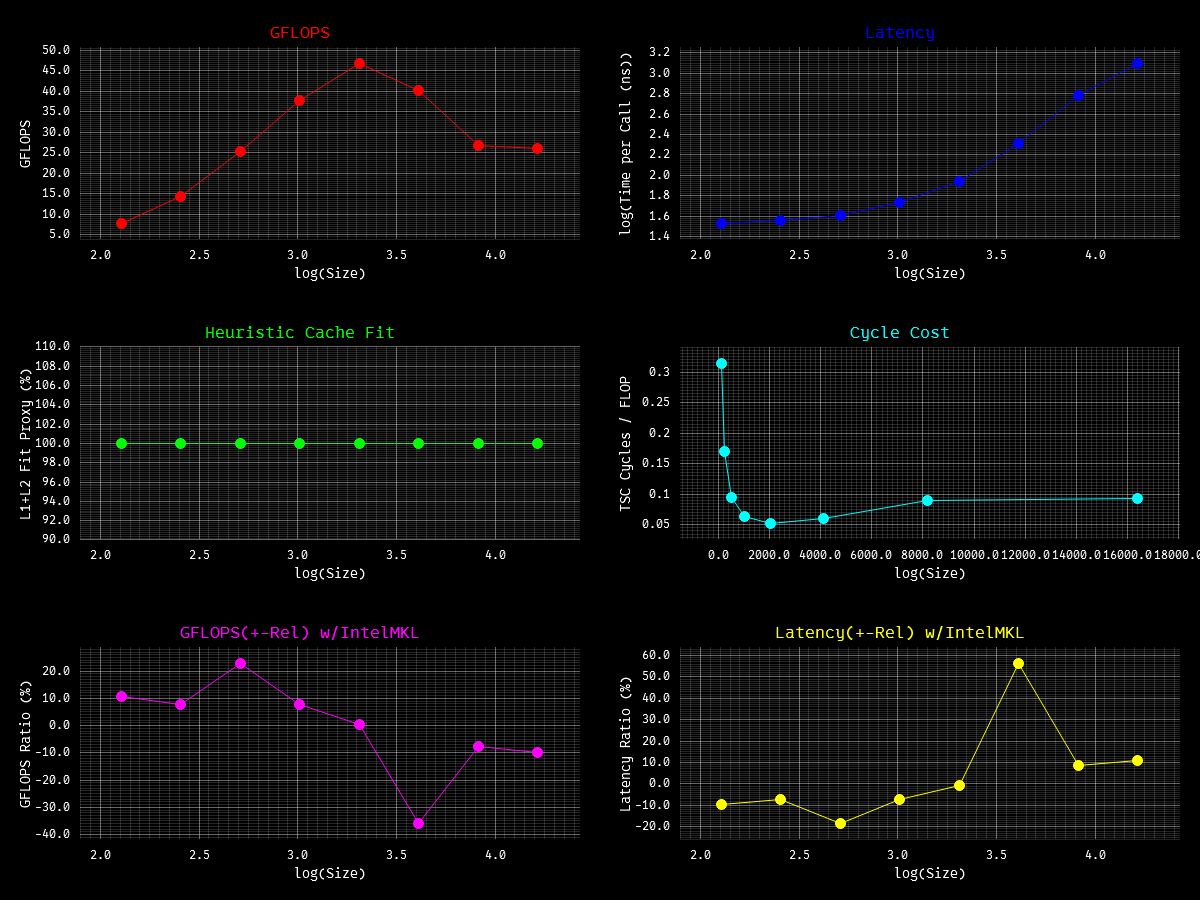
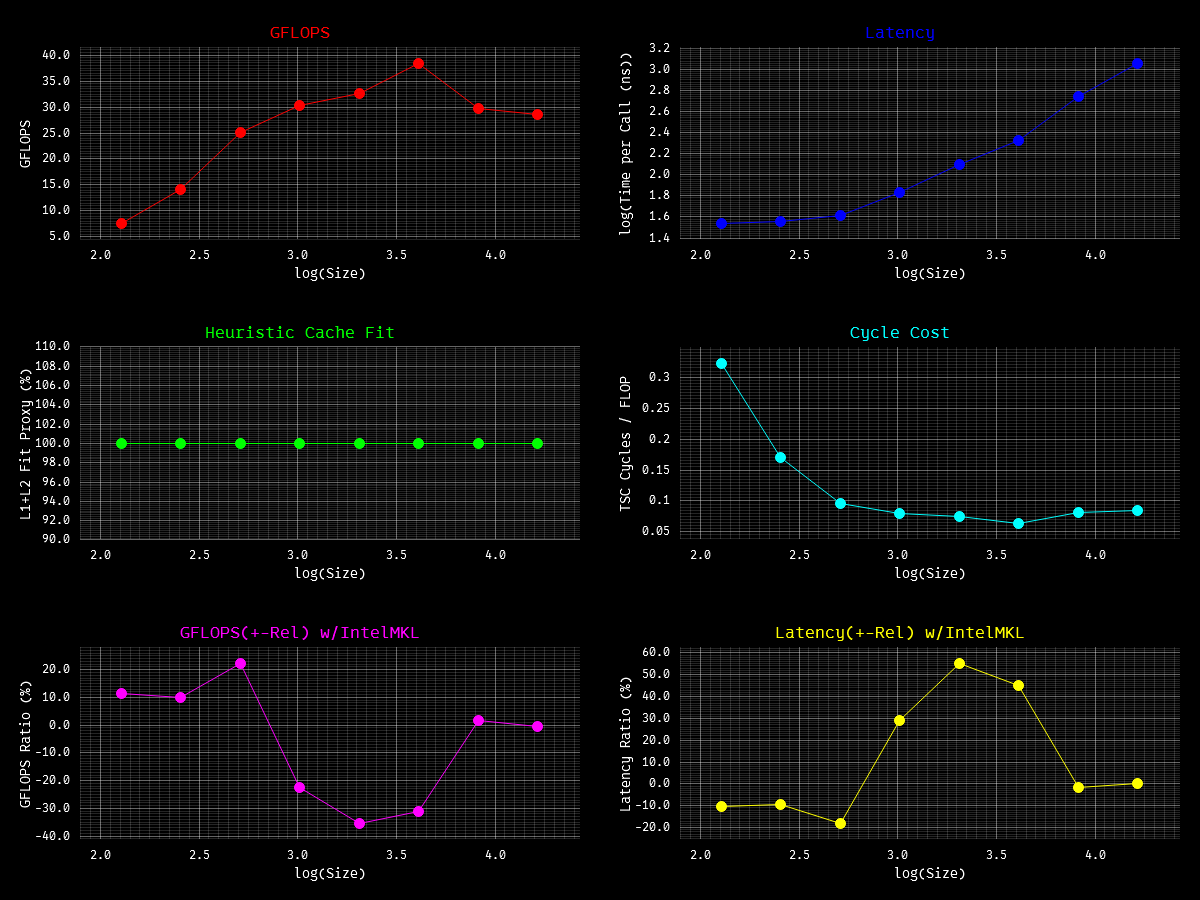
chore; new bench (im done)

diff --git a/bench/main.rs b/bench/main.rs
@@ -62,6 +62,12 @@ fn warmup(noise: &mut Noise, r: usize, s: usize) {
 
             dot(s, &y, 1, &vec![0.0f32; s], 1);
 
+            asum(s, &y, 1);
+
+            nrm2(s, &y, 1);
+
+            i_amax(s, &y, 1);
+
             gemv(
                 s,
                 s,
@@ -115,6 +121,12 @@ fn warmup(noise: &mut Noise, r: usize, s: usize) {
             axpy_intel_mkl(s as i32, (i % 7) as f32, &y, 1, &mut vec![0.0f32; s], 1);
 
             dot_intel_mkl(s as i32, &y, 1, &vec![0.0f32; s], 1);
+
+            asum_intel_mkl(s as i32, &y, 1);
+
+            nrm2_intel_mkl(s as i32, &y, 1);
+
+            i_amax_intel_mkl(s as i32, &y, 1);
 
             gemv_intel_mkl(
                 s as i32,
@@ -298,7 +310,7 @@ fn bench_axpy(noise: &mut Noise, size_sample: &[usize], target_time: f64, plot_p
             ((i as f64).log10(), gflops),
             ((i as f64).log10(), latency.log10()),
             ((i as f64).log10(), cache_eff),
-            (i as f64, cyc_per_flop),
+            ((i as f64).log10(), cyc_per_flop),
             ((i as f64).log10(), gflops_rel),
             ((i as f64).log10(), latency_rel),
         );
@@ -386,7 +398,7 @@ fn bench_nrm2(noise: &mut Noise, size_sample: &[usize], target_time: f64, plot_p
             ((i as f64).log10(), gflops),
             ((i as f64).log10(), latency.log10()),
             ((i as f64).log10(), cache_eff),
-            (i as f64, cyc_per_flop),
+            ((i as f64).log10(), cyc_per_flop),
             ((i as f64).log10(), gflops_rel),
             ((i as f64).log10(), 0.0),
         );
@@ -471,7 +483,7 @@ fn bench_asum(noise: &mut Noise, size_sample: &[usize], target_time: f64, plot_p
             ((i as f64).log10(), gflops),
             ((i as f64).log10(), latency.log10()),
             ((i as f64).log10(), cache_eff),
-            (i as f64, cyc_per_flop),
+            ((i as f64).log10(), cyc_per_flop),
             ((i as f64).log10(), gflops_rel),
             ((i as f64).log10(), 0.0),
         );
@@ -560,7 +572,7 @@ fn bench_dot(noise: &mut Noise, size_sample: &[usize], target_time: f64, plot_pa
             ((i as f64).log10(), gflops),
             ((i as f64).log10(), latency.log10()),
             ((i as f64).log10(), cache_eff),
-            (i as f64, cyc_per_flop),
+            ((i as f64).log10(), cyc_per_flop),
             ((i as f64).log10(), gflops_rel),
             ((i as f64).log10(), latency_rel),
         );
@@ -648,7 +660,7 @@ fn bench_i_amax(noise: &mut Noise, size_sample: &[usize], target_time: f64, plot
             ((i as f64).log10(), gflops),
             ((i as f64).log10(), latency.log10()),
             ((i as f64).log10(), cache_eff),
-            (i as f64, cyc_per_flop),
+            ((i as f64).log10(), cyc_per_flop),
             ((i as f64).log10(), gflops_rel),
             ((i as f64).log10(), 0.0),
         );
@@ -764,7 +776,7 @@ fn bench_gemv(noise: &mut Noise, size_sample: &[usize], target_time: f64, plot_p
             ((i as f64).log10(), gflops),
             ((i as f64).log10(), latency.log10()),
             ((i as f64).log10(), cache_eff),
-            (i as f64, cyc_per_flop),
+            ((i as f64).log10(), cyc_per_flop),
             ((i as f64).log10(), gflops_rel),
             ((i as f64).log10(), latency_rel),
         );
@@ -883,7 +895,7 @@ fn bench_gemv_t(noise: &mut Noise, size_sample: &[usize], target_time: f64, plot
             ((i as f64).log10(), gflops),
             ((i as f64).log10(), latency.log10()),
             ((i as f64).log10(), cache_eff),
-            (i as f64, cyc_per_flop),
+            ((i as f64).log10(), cyc_per_flop),
             ((i as f64).log10(), gflops_rel),
             ((i as f64).log10(), latency_rel),
         );
@@ -1007,7 +1019,7 @@ fn bench_gemm_f_f(noise: &mut Noise, size_sample: &[usize], target_time: f64, pl
             ((i as f64).log10(), gflops),
             ((i as f64).log10(), latency.log10()),
             ((i as f64).log10(), cache_eff),
-            (i as f64, cyc_per_flop),
+            ((i as f64).log10(), cyc_per_flop),
             ((i as f64).log10(), gflops_rel),
             ((i as f64).log10(), latency_rel),
         );

diff --git a/bench/lite.rs b/bench/lite.rs
@@ -256,6 +256,7 @@ fn main() {
 
     let total_flops = flops_per_call * runs as f64;
     let gflops = total_flops / elapsed / 1e9;
+    let archmetic_intensity = total_flops / (size * size) as f64;
     let cycles = (clock_end_mark - clock_start_mark) as f64;
 
     println!("---");
@@ -263,7 +264,8 @@ fn main() {
     println!("size:     {}", size);
     println!("runs:     {}", runs);
     println!("elapsed:  {:.3}s", elapsed);
-    println!("flops/c:  {:.3}", flops_per_call);
     println!("gflops:   {:.3}", gflops);
+    println!("ai:       {:.3}", archmetic_intensity);
+    println!("flops/c:  {:.3}", flops_per_call);
     println!("cycles/f: {:.3}", cycles / total_flops);
 }

diff --git a/README.md b/README.md
@@ -1,4 +1,4 @@
-Rookie attempt to rewriting **BLAS FORTRAN 77** and **Intel Math Library** Kernels in modern native rust. `ONLY x86_64`
+**BLAS FORTRAN 77** and **Intel Math Library** Kernels in modern native rust. `ONLY x86_64`
 
 refs I took:
 
@@ -24,87 +24,129 @@ TODO:
 - MAKE GEMV & GEMM FAST FOR ALL PATHS!!!
 - bench is somewhat UNFAIR AND NOT UNIFORM
 
-To bench, run **[harness](./bench/bencher.rs)** using
-`cargo bench --bench bencher <kernel> or all` [ref](https://github.com/OpenMathLib/OpenBLAS/tree/develop/benchmark) and
-build using `RUSTFLAGS target-cpu=x86-64-v3`, otherwise rustc will throw error.
+To bench, run **[harness](bench/main.rs)** using
+`cargo bench --bench main --- <kernel1> <kernel2> ...` [ref](https://github.com/OpenMathLib/OpenBLAS/tree/develop/benchmark)
+and build using `RUSTFLAGS target-cpu=x86-64-v3`, otherwise rustc will throw error. Or use `Intel Vtune/Advisor`
 
 Install [Intel oneAPI Toolkit](https://www.intel.com/content/www/us/en/developer/tools/oneapi/oneapi-toolkit-download.html?packages=oneapi-toolkit&oneapi-toolkit-os=linux&oneapi-lin=offline)
 then copy the `.dll` or `.so` into the project root:
 
 - windows > `Copy-Item "C:\Program Files (x86)\Intel\oneAPI\compiler\2026.0\bin\libiomp5md.dll" .`
 - linux > `cp /home/ronakgh97/intel/oneapi/compiler/latest/lib/libiomp5.so .`
-- mac > `sell that shit`
+- mac > `sell that bullshit`
 
-> All are single threaded, ran on i7 14650hx, rust 1.97.1, last updated on 8/7/2026
+> All are single threaded, ran on i7 14650hx, rust 1.97.1, last updated on 08/20/2026
 
-**Axpy**
+**AXPY**
 ![plot](bench/plot/axpy.png)
 
-| Size  | Run       | GFLOPS             | Gflops_w/IntelMKL    | Latency_w/IntelMKL   | WSS Cache Fit |
-|-------|-----------|--------------------|----------------------|----------------------|---------------|
-| 128   | 187255932 | 7.629492809340103  | 10.912895832839984%  | -9.839158693761933%  | 100%          |
-| 256   | 173547966 | 14.1419600920584   | 7.486771083284213%   | -6.965295364099484%  | 100%          |
-| 512   | 151862451 | 24.749730821093852 | 1.873356543327374%   | -1.83890725395961%   | 100%          |
-| 1024  | 122043465 | 39.779983627731504 | 14.620823686926965%  | -12.755818023836586% | 100%          |
-| 2048  | 58962204  | 38.4373804382726   | -26.741202470379193% | 36.50237701426491%   | 100%          |
-| 4096  | 42235529  | 55.06656584647125  | -14.269094530364459% | 16.644049718357774%  | 100%          |
-| 8192  | 10024013  | 26.138435609014664 | -14.212387220691166% | 16.56694569325871%   | 100%          |
-| 16384 | 4715347   | 24.591421180592963 | -17.214312473013063% | 20.793826792102738%  | 100%          |
+| Size  | Run      | GFLOPS  | %GFLOPS   | %Latency  | WSS Cache | Cyc/Flop |
+|-------|----------|---------|-----------|-----------|-----------|----------|
+| 128   | 58524151 | 7.4911  | +11.3976% | -10.2315% | 100.00%   | 0.3229   |
+| 256   | 55360685 | 14.1723 | +10.1577% | -9.2210%  | 100.00%   | 0.1707   |
+| 512   | 49054090 | 25.1157 | +22.3982% | -18.2994% | 100.00%   | 0.0963   |
+| 1024  | 29526357 | 30.2350 | -22.3954% | +28.8583% | 100.00%   | 0.0800   |
+| 2048  | 15931282 | 32.6273 | -35.6184% | +55.3238% | 100.00%   | 0.0741   |
+| 4096  | 9392704  | 38.4725 | -31.0237% | +44.9773% | 100.00%   | 0.0629   |
+| 8192  | 3618502  | 29.6428 | +1.8525%  | -1.8188%  | 100.00%   | 0.0816   |
+| 16384 | 1740415  | 28.5149 | -0.4081%  | +0.4098%  | 100.00%   | 0.0848   |
 
-**Dot**
+**DOT**
 ![plot](bench/plot/dot.png)
 
-| Size  | Run       | GFLOPS             | Gflops_w/IntelMKL   | Latency_w/IntelMKL   | WSS Cache Fit |
-|-------|-----------|--------------------|---------------------|----------------------|---------------|
-| 128   | 195724363 | 7.974527845064066  | 15.241024514513962% | -13.225346250366288% | 100%          |
-| 256   | 192106380 | 15.654235916705563 | 21.511714415536932% | -17.703407872242437% | 100%          |
-| 512   | 184358897 | 30.04582843091022  | 35.00790591137586%  | -25.930263620529264% | 100%          |
-| 1024  | 172262260 | 56.14876627387122  | 61.02545000675933%  | -37.898015502641144% | 100%          |
-| 2048  | 146304651 | 95.37580261375066  | 132.50196051640114% | -56.989609989570035% | 100%          |
-| 4096  | 116067814 | 151.32889955594817 | 175.15762084025857% | -63.657194122181146% | 100%          |
-| 8192  | 23734897  | 61.89098508547981  | 114.82158674555333% | -53.44974333587547%  | 100%          |
-| 16384 | 12283986  | 64.06330579114818  | 111.12019618545372% | -52.633617338931735% | 100%          |
+| Size  | Run      | GFLOPS   | %GFLOPS    | %Latency  | WSS Cache | Cyc/Flop |
+|-------|----------|----------|------------|-----------|-----------|----------|
+| 128   | 62846043 | 8.0443   | +16.1387%  | -13.8961% | 100.00%   | 0.3007   |
+| 256   | 61807547 | 15.8227  | +19.8706%  | -16.5767% | 100.00%   | 0.1529   |
+| 512   | 59659094 | 30.5455  | +37.8536%  | -27.4593% | 100.00%   | 0.0792   |
+| 1024  | 57196195 | 58.5689  | +89.1212%  | -47.1239% | 100.00%   | 0.0413   |
+| 2048  | 51153016 | 104.7614 | +129.0941% | -56.3498% | 100.00%   | 0.0231   |
+| 4096  | 40504206 | 165.9052 | +243.2078% | -70.8631% | 100.00%   | 0.0146   |
+| 8192  | 28652045 | 234.7176 | +726.7281% | -87.9041% | 100.00%   | 0.0103   |
+| 16384 | 18024791 | 295.3182 | +602.2187% | -85.7594% | 100.00%   | 0.0082   |
 
-**Gemv**
+**NRM2**
+![plot](bench/plot/nrm2.png)
+
+| Size  | Run      | GFLOPS  | %GFLOPS   | %Latency  | WSS Cache | Cyc/Flop |
+|-------|----------|---------|-----------|-----------|-----------|----------|
+| 128   | 42089412 | 5.3874  | -11.0229% | +12.3885% | 100.00%   | 0.4490   |
+| 256   | 35079135 | 8.9803  | -13.8755% | +16.1110% | 100.00%   | 0.2694   |
+| 512   | 27980944 | 14.3262 | -7.2883%  | +7.8612%  | 100.00%   | 0.1689   |
+| 1024  | 20163996 | 20.6479 | -3.5163%  | +3.6445%  | 100.00%   | 0.1172   |
+| 2048  | 12802602 | 26.2197 | -0.6175%  | +0.6214%  | 100.00%   | 0.0923   |
+| 4096  | 7366935  | 30.1750 | -0.4413%  | +0.4433%  | 100.00%   | 0.0802   |
+| 8192  | 3987749  | 32.6676 | +0.5686%  | -0.5654%  | 100.00%   | 0.0741   |
+| 16384 | 1960388  | 32.1190 | -1.3995%  | +1.4194%  | 100.00%   | 0.0753   |
+
+**ASUM**
+![plot](bench/plot/asum.png)
+
+| Size  | Run      | GFLOPS  | %GFLOPS   | %Latency  | WSS Cache | Cyc/Flop |
+|-------|----------|---------|-----------|-----------|-----------|----------|
+| 128   | 60014248 | 3.8409  | +10.1060% | -9.1784%  | 100.00%   | 0.6299   |
+| 256   | 56734936 | 7.2621  | +6.6010%  | -6.1923%  | 100.00%   | 0.3331   |
+| 512   | 52214053 | 13.3668 | +7.2522%  | -6.7618%  | 100.00%   | 0.1810   |
+| 1024  | 38650881 | 19.7893 | +0.2326%  | -0.2321%  | 100.00%   | 0.1222   |
+| 2048  | 26789160 | 27.4321 | -9.8139%  | +10.8818% | 100.00%   | 0.0882   |
+| 4096  | 16671274 | 34.1428 | -11.1818% | +12.5895% | 100.00%   | 0.0709   |
+| 8192  | 9463469  | 38.7624 | -12.8816% | +14.7863% | 100.00%   | 0.0624   |
+| 16384 | 4352208  | 35.6533 | -2.3183%  | +2.3733%  | 100.00%   | 0.0679   |
+
+**I_AMAX**
+![plot](bench/plot/i_amax.png)
+
+| Size  | Run      | GFLOPS  | %GFLOPS    | %Latency   | WSS Cache | Cyc/Flop |
+|-------|----------|---------|------------|------------|-----------|----------|
+| 128   | 44813279 | 2.8680  | +104.0533% | -50.9932%  | 100.00%   | 0.8435   |
+| 256   | 35397197 | 4.5308  | +24.0493%  | -19.3869%  | 100.00%   | 0.5339   |
+| 512   | 25642587 | 6.5645  | -8.3386%   | +9.0972%   | 100.00%   | 0.3685   |
+| 1024  | 16961667 | 8.6844  | -29.5496%  | +41.9438%  | 100.00%   | 0.2786   |
+| 2048  | 9902440  | 10.1401 | -48.3213%  | +93.5032%  | 100.00%   | 0.2386   |
+| 4096  | 5414404  | 11.0887 | -59.1860%  | +145.0143% | 100.00%   | 0.2182   |
+| 8192  | 2816718  | 11.5373 | -63.4438%  | +173.5515% | 100.00%   | 0.2097   |
+| 16384 | 1417568  | 11.6127 | -61.0205%  | +156.5450% | 100.00%   | 0.2083   |
+
+**GEMV**
 ![plot](bench/plot/gemv.png)
 
-| Size  | Run     | GFLOPS             | Gflops_w/IntelMKL    | Latency_w/IntelMKL   | WSS Cache Fit        |
-|-------|---------|--------------------|----------------------|----------------------|----------------------|
-| 128   | 7665208 | 39.97550601582551  | -8.145060399881212%  | 8.867307991644111%   | 100%                 |
-| 256   | 2431182 | 50.716283340863214 | 1.0187885272151849%  | -1.0085139032732424% | 100%                 |
-| 512   | 842043  | 70.26256637735183  | -8.09471386248138%   | 8.807669507028347%   | 100%                 |
-| 1024  | 101160  | 33.7641413623682   | 0.665279457940009%   | -0.6608827408242307% | 51.02239532619279%   |
-| 2048  | 23600   | 31.506852394268957 | -0.7810677978064013% | 0.7872164923269553%  | 12.774256460263286%  |
-| 4096  | 3318    | 17.713297860896997 | 3.4122531655549397%  | -3.2996603991329643% | 3.195901439375457%   |
-| 8192  | 731     | 15.610736048678088 | 4.048336352195165%   | -3.8908227600025063% | 0.7992678462477121%  |
-| 16384 | 183     | 15.556032392371709 | 6.320626079343515%   | -5.944872892891594%  | 0.19985354244217976% |
+| Size  | Run     | GFLOPS  | %GFLOPS   | %Latency  | WSS Cache | Cyc/Flop |
+|-------|---------|---------|-----------|-----------|-----------|----------|
+| 128   | 3241362 | 53.1001 | -12.8399% | +14.7314% | 100.00%   | 0.0456   |
+| 256   | 1084617 | 71.0814 | +0.6962%  | -0.6914%  | 100.00%   | 0.0340   |
+| 512   | 268098  | 70.2802 | -3.6030%  | +3.7377%  | 100.00%   | 0.0344   |
+| 1024  | 34432   | 36.1040 | -1.4569%  | +1.4785%  | 51.02%    | 0.0670   |
+| 2048  | 8257    | 34.6324 | -0.5891%  | +0.5926%  | 12.77%    | 0.0699   |
+| 4096  | 1132    | 18.9895 | +1.6010%  | -1.5758%  | 3.20%     | 0.1274   |
+| 8192  | 247     | 16.5505 | +2.9944%  | -2.9073%  | 0.80%     | 0.1462   |
+| 16384 | 61      | 16.3223 | +3.2493%  | -3.1471%  | 0.20%     | 0.1482   |
 
-**Gemv_T**
+**GEMV_T**
 ![plot](bench/plot/gemv_t.png)
 
-| Size  | Run     | GFLOPS             | Gflops_w/IntelMKL     | Latency_w/IntelMKL   | WSS Cache Fit        |
-|-------|---------|--------------------|-----------------------|----------------------|----------------------|
-| 128   | 7051057 | 36.77259325611539  | -19.109524913928215%  | 23.623949412578753%  | 100%                 |
-| 256   | 2232249 | 46.566399632492164 | -10.513008386138068%  | 11.748085611707562%  | 100%                 |
-| 512   | 838405  | 69.95904428675267  | -0.1411212468532423%  | 0.14132068035942652% | 100%                 |
-| 1024  | 100107  | 33.41276537273465  | -2.4447008905789285%  | 2.5059642201874457%  | 51.02239532619279%   |
-| 2048  | 25017   | 33.398641096847925 | -7.651033464134363%   | 8.284915090157408%   | 12.774256460263286%  |
-| 4096  | 3456    | 18.449820337331435 | -3.1982348674938925%  | 3.3039013938599275%  | 3.195901439375457%   |
-| 8192  | 774     | 16.520938936906674 | -0.08431781550658682% | 0.08438897044297171% | 0.7992678462477121%  |
-| 16384 | 193     | 16.447078971453337 | 2.3507555534610596%   | -2.2967642405269455% | 0.19985354244217976% |
+| Size  | Run     | GFLOPS  | %GFLOPS  | %Latency | WSS Cache | Cyc/Flop |
+|-------|---------|---------|----------|----------|-----------|----------|
+| 128   | 4248004 | 69.5993 | +8.3940% | -7.7440% | 100.00%   | 0.0348   |
+| 256   | 1127538 | 73.8943 | +3.6890% | -3.5578% | 100.00%   | 0.0327   |
+| 512   | 277109  | 72.6423 | +1.1904% | -1.1764% | 100.00%   | 0.0333   |
+| 1024  | 33823   | 35.4653 | -4.1473% | +4.3268% | 51.02%    | 0.0682   |
+| 2048  | 8617    | 36.1379 | +3.3661% | -3.2565% | 12.77%    | 0.0669   |
+| 4096  | 1150    | 19.2773 | -0.3482% | +0.3495% | 3.20%     | 0.1255   |
+| 8192  | 242     | 16.1827 | -0.6822% | +0.6868% | 0.80%     | 0.1495   |
+| 16384 | 61      | 16.2154 | -0.6713% | +0.6759% | 0.20%     | 0.1492   |
 
-**Gemm_F_F**
+**GEMM_F_F**
 ![plot](bench/plot/gemm_f_f.png)
 
-| Size  | Run    | GFLOPS             | Gflops_w/IntelMKL    | Latency_w/IntelMKL  | WSS Cache Fit     |
-|-------|--------|--------------------|----------------------|---------------------|-------------------|
-| 128   | 119011 | 79.44478975794888  | -39.03392812313379%  | 64.02565709329447%  | 100%              |
-| 256   | 16508  | 88.15581207639944  | -35.87821683757666%  | 55.953242514631164% | 100%              |
-| 512   | 2740   | 117.02672429550375 | -16.836658474730942% | 20.245288568179014% | 40.9375%          |
-| 1024  | 333    | 113.77101765735884 | -18.93347886464331%  | 23.355484606314967% | 10.234375%        |
-| 2048  | 36     | 97.5603789380732   | -31.131072712639313% | 45.203365202339555% | 2.55859375%       |
-| 4096  | 3      | 61.348770612429576 | -57.12245989867806%  | 133.2223344988883%  | 0.6396484375%     |
-| 8192  | 1      | 52.933379325077134 | -63.0638694477456%   | 170.7376178956475%  | 0.159912109375%   |
-| 16384 | 1      | 52.86820748655343  | -63.90618647334251%  | 177.05578942536476% | 0.03997802734375% |
+| Size  | Run   | GFLOPS   | %GFLOPS   | %Latency   | WSS Cache | Cyc/Flop |
+|-------|-------|----------|-----------|------------|-----------|----------|
+| 128   | 39717 | 83.2920  | -30.2797% | +43.4303%  | 100.00%   | 0.0290   |
+| 256   | 5760  | 96.6350  | -23.8780% | +31.3680%  | 100.00%   | 0.0250   |
+| 512   | 831   | 111.4461 | -14.0646% | +16.3665%  | 40.94%    | 0.0217   |
+| 1024  | 93    | 98.9104  | -23.8761% | +31.3648%  | 10.23%    | 0.0245   |
+| 2048  | 11    | 87.4882  | -32.8669% | +48.9577%  | 2.56%     | 0.0277   |
+| 4096  | 1     | 56.8975  | -56.9288% | +132.1735% | 0.64%     | 0.0425   |
+| 8192  | 1     | 52.1073  | -60.8331% | +155.3175% | 0.16%     | 0.0464   |
+| 16384 | 1     | 51.7685  | -61.3525% | +158.7488% | 0.04%     | 0.0467   |
 
-Wanna improve the [bench](bench/bencher.rs) and added more kernels perf test? Send me a PR
+Wanna improve the [bench](bench/main.rs) and added more kernels perf test? Send me a PR
